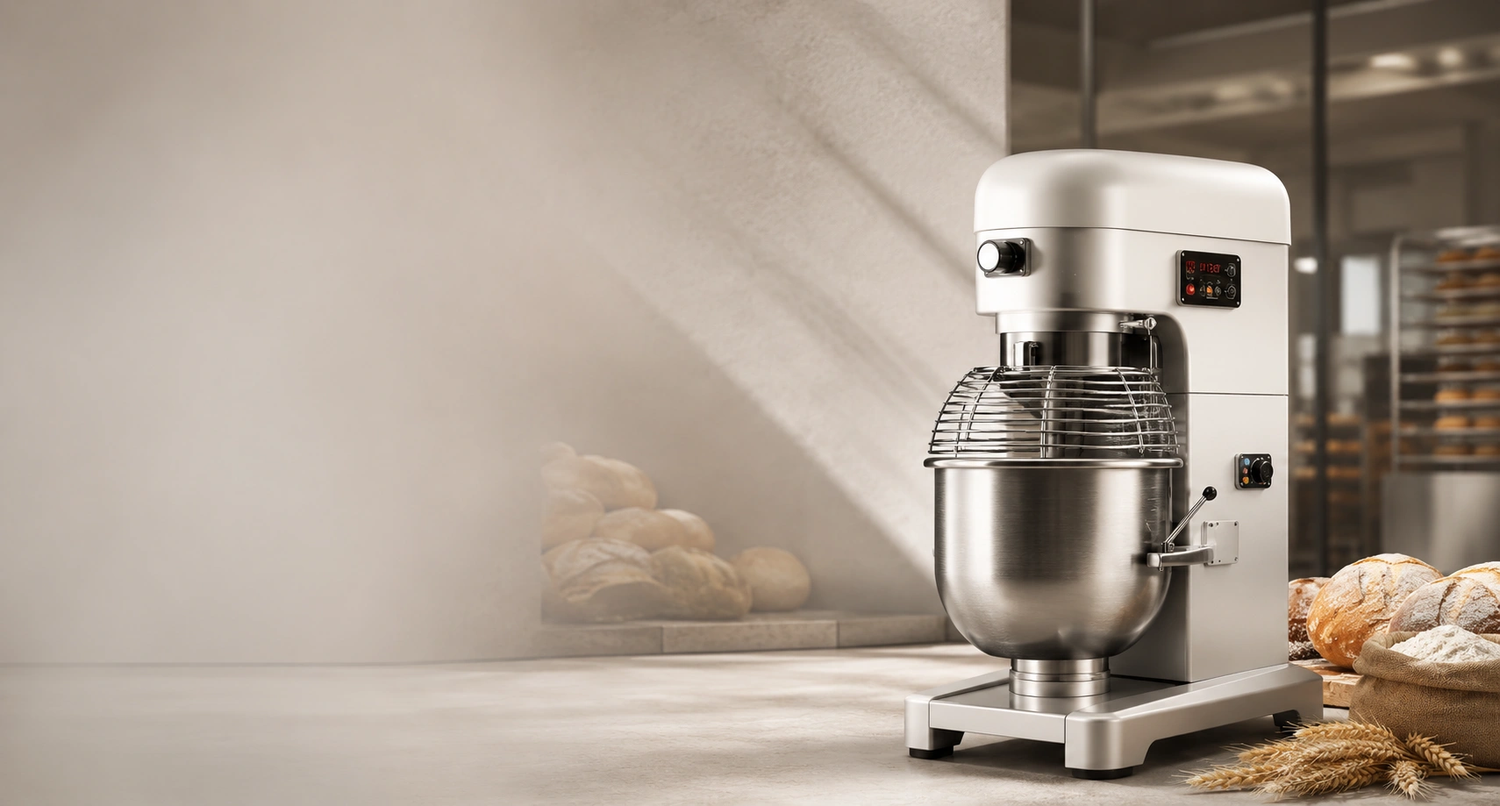
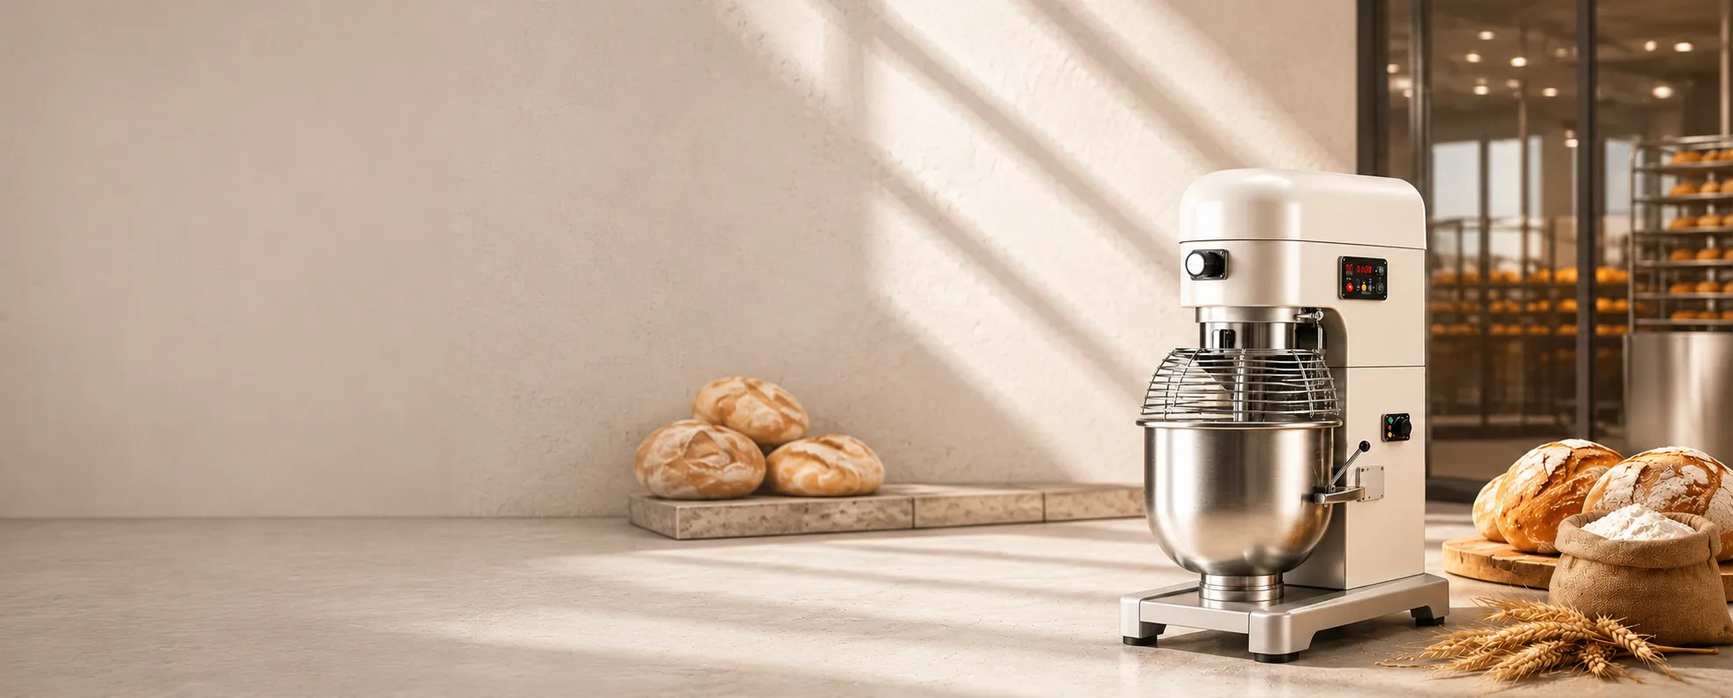
123s

diff --git a/script.js b/script.js
@@ -21,7 +21,6 @@ const products = [
   'Плита 4-конфорочная промышленная с круглыми конфорками и электрическим духовым шкафом',
   'Сковорода опрокидываемая электрическая промышленная (120 л)',
   'Сковорода опрокидываемая электрическая промышленная',
-  'Сковорода опрокидываемая электрическая промышленная',
   'Вакуумный массажер для мяса (маринатор) с компьютерным управлением и манометром на 85 литров',
   'Вакуумный массажер для мяса (маринатор) с компьютерным управлением и манометром на 100 литров',
   'Вакуумный маринатор для мяса (мясомассажер) на 160 литров с манометром',
@@ -29,38 +28,41 @@ const products = [
   'Котёл пищеварочный электрический (котел-супница) с водяной рубашкой (60 л)',
   'Фритюрница электрическая промышленная двухсекционная на закрытой подставке (с нейтральным шкафом)',
   'Мармит электрический двухсекционный на 6 гастроемкостей на закрытой подставке',
-  'Конвейерная печь для пиццы электрическая конвекционная (туннельная печь) 18 дюймов со стрелочной панелью управления',
-  'Конвейерная печь для пиццы электрическая конвекционная (туннельная печь) 32 дюйма со стрелочной панелью управления',
-  'Промышленный многофункциональный конвейерный нарезчик (машина для нарезки кубиками, ломтиками и сегментами) с ЧПУ',
+  'Конвейерная печь для пиццы электрическая конвекционная (туннельная печь) 18 дюймов',
+  'Конвейерная печь для пиццы электрическая конвекционная (туннельная печь) 32 дюйма',
+  'Промышленный многофункциональный конвейерный нарезчик с ЧПУ',
   'Промышленный волчок-мясорубка для замороженного и свежего мяса',
-  'Промышленный волчок-мясорубка для замороженного и свежего мяса',
-  'Промышленная универсальная термодымовая камера (коптильно-варочная автоматизированная установка)',
-  'Профессиональная настольная ленточная пила для резки костей и замороженного мяса',
+  'Промышленная универсальная термодымовая камера',
   'Профессиональная настольная ленточная пила для резки костей и замороженного мяса',
   'Промышленная ротационная конвекционная печь на 64 противня',
   'Промышленная ротационная конвекционная печь на 32 противня',
-  'Промышленный шкаф расстоечный на 64 противня модель ZY-F64 (расстоечная камера тупикового типа)',
-  'Профессиональный шкаф расстоечный инжекционного типа на 32 противня (спрей-система, компьютерное управление)',
-  'Профессиональный шкаф расстоечный инжекционного типа на 16 противней (спрей-система, компьютерное управление)',
+  'Промышленный шкаф расстоечный на 64 противня модель ZY-F64',
+  'Профессиональный шкаф расстоечный инжекционного типа на 32 противня',
+  'Профессиональный шкаф расстоечный инжекционного типа на 16 противней',
   'Профессиональный аппарат шоковой заморозки тележечного типа',
-  'Промышленный аппарат шоковой заморозки тележечного типа модель GDBY40-30PCT (-40°C, боковое расположение агрегата)',
-  'Промышленный аппарат шоковой заморозки тележечного типа',
+  'Промышленный аппарат шоковой заморозки тележечного типа модель GDBY40-30PCT',
   'Профессиональный аппарат шоковой заморозки полочного типа',
-  'Профессиональный четырехдверный морозильный шкаф коммерческого класса (низкотемпературный, с воздушным охлаждением)',
-  'Профессиональный двухдверный морозильный шкаф коммерческого класса (низкотемпературный, с воздушным охлаждением)',
+  'Профессиональный четырехдверный морозильный шкаф коммерческого класса',
+  'Профессиональный двухдверный морозильный шкаф коммерческого класса',
   'Профессиональный двухдверный холодильный шкаф коммерческого класса',
-  'Профессиональный двухдверный комбинированный шкаф модель BGF-1.0L2CD (двухтемпературный, с воздушным охлаждением)',
-  'Профессиональный четырехдверный комбинированный шкаф модель BGF-1.0L4CD (двухтемпературный, с воздушным охлаждением)',
-  'Промышленный трехдверный комбинированный шкаф модель BGF-1.6L3CD (двухтемпературный, с воздушным охлаждением)',
-  'Профессиональный вибрационный просеиватель муки модель 500-VS (однослойный, электрический)',
-  'Профессиональный автоматический аппарат для выпекания блинных листов модель DG-230 (настольный, конвейерный)',
+  'Профессиональный двухдверный комбинированный шкаф модель BGF-1.0L2CD',
+  'Профессиональный четырехдверный комбинированный шкаф модель BGF-1.0L4CD',
+  'Промышленный трехдверный комбинированный шкаф модель BGF-1.6L3CD',
+  'Профессиональный вибрационный просеиватель муки модель 500-VS',
+  'Профессиональный автоматический аппарат для выпекания блинных листов модель DG-230',
   'Профессиональная конвейерная тестораскаточная машина промышленного класса'
 ];
 
-const cards = document.getElementById('productCards');
-products.forEach((name) => {
-  const card = document.createElement('article');
-  card.className = 'card';
-  card.innerHTML = `<h3>${name}</h3>`;
-  cards.appendChild(card);
-});
+function renderCards(targetId, data) {
+  const cards = document.getElementById(targetId);
+  if (!cards) return;
+  data.forEach((name, i) => {
+    const card = document.createElement('article');
+    card.className = 'card';
+    card.innerHTML = `<h3>${name}</h3><p>Артикул: PT-${String(i + 1).padStart(3, '0')}</p>`;
+    cards.appendChild(card);
+  });
+}
+
+renderCards('productCards', products.slice(0, 9));
+renderCards('allProductCards', products);

diff --git a/style.css b/style.css
@@ -1,57 +1,40 @@
-:root {
-  --bg: #f5f4f2;
-  --text: #111;
-  --muted: #5b5b5b;
-  --card: #fff;
-  --line: #e4e1dd;
+:root{--bg:#f5f4f2;--text:#111;--muted:#5b5b5b;--card:#fff;--line:#e4e1dd}
+*{box-sizing:border-box} body{margin:0;font-family:Inter,sans-serif;color:var(--text);background:var(--bg)}
+.container{width:min(1320px,92%);margin:0 auto}
+.topbar{
+  position:absolute;
+  top:14px;
+  left:50%;
+  transform:translateX(-50%);
+  z-index:20;
+  background:#fff;
+  width:min(1400px,96%);
+  border-radius:8px;
+  box-shadow:0 8px 20px rgba(0,0,0,.08);
 }
-* { box-sizing: border-box; }
-body {
-  margin: 0;
-  font-family: Inter, sans-serif;
-  color: var(--text);
-  background: var(--bg);
+.nav-wrap{height:92px;display:flex;align-items:center;justify-content:space-between;gap:24px}.brand-main{font-size:38px;font-family:Playfair Display,serif;display:block;line-height:.85}.brand-sub{font-size:14px;color:#777}
+.menu{display:flex;gap:32px}.menu a,.phone{color:#1c1c1c;text-decoration:none;font-weight:500;font-size:14px}.top-actions{display:flex;align-items:center;gap:20px}
+.btn{border:none;background:#1a1a1a;color:#fff;padding:12px 22px;border-radius:6px;font-size:16px;text-decoration:none;display:inline-block}
+.hero{
+  margin-top:0;
+  min-height:720px;
+  padding-top:110px;
+  background:
+    linear-gradient(90deg,
+      rgba(245,244,242,.96) 0%,
+      rgba(245,244,242,.84) 36%,
+      rgba(245,244,242,.18) 68%,
+      rgba(245,244,242,0) 100%
+    ),
+    url('./img/slider.webp') center/cover no-repeat;
 }
-.container { width: min(1320px, 92%); margin: 0 auto; }
-.topbar {
-  position: sticky; top: 0; z-index: 20;
-  background: #fff; margin: 14px auto; width: min(1400px, 96%);
-  border-radius: 8px; box-shadow: 0 8px 20px rgba(0,0,0,.08);
-}
-.nav-wrap { height: 92px; display: flex; align-items: center; justify-content: space-between; gap: 24px; }
-.brand-main { font-size: 42px; font-family: Playfair Display, serif; display:block; line-height: .85; }
-.brand-sub { font-size: 14px; color: #777; letter-spacing: .04em; }
-.menu { display: flex; gap: 42px; }
-.menu a, .phone { color: #1c1c1c; text-decoration: none; font-weight: 500; font-size: 14px; }
-.top-actions { display:flex; align-items:center; gap: 24px; }
-.btn {
-  border: none; background: #1a1a1a; color: #fff; padding: 14px 26px;
-  border-radius: 6px; font-size: 18px; text-decoration:none; display:inline-block;
-}
-.hero {
-  min-height: 620px;
-  background: linear-gradient(90deg, rgba(245,244,242,.98) 0%, rgba(245,244,242,.86) 35%, rgba(245,244,242,.2) 70%),
-    url('https://images.unsplash.com/photo-1581092918484-8313b0a59c62?auto=format&fit=crop&w=1800&q=80') center/cover;
-}
-.hero-content { padding: 94px 0; position: relative; }
-.hero-left { max-width: 560px; }
-h1 { font-family: Playfair Display, serif; font-size: 68px; line-height: 1.05; margin: 0 0 18px; }
-.hero p { font-size: 39px; color: #2d2d2d; margin: 0 0 30px; }
-.features { background:#efede9; border-top:1px solid var(--line); border-bottom:1px solid var(--line); }
-.features-grid { display:grid; grid-template-columns: repeat(5,1fr); gap:24px; padding:30px 0; }
-.features h3 { margin:0 0 10px; font-size: 30px; }
-.features p { margin:0; color:var(--muted); font-size: 20px; }
-.catalog { padding: 46px 0 74px; }
-.catalog-head { display:flex; justify-content:space-between; align-items:center; margin-bottom:26px; }
-.catalog-head h2 { margin:0; font-size:40px; letter-spacing:.02em; }
-.catalog-head span { font-size:24px; color:#303030; }
-.cards { display:grid; grid-template-columns: repeat(3, 1fr); gap: 18px; }
-.card { background:var(--card); border:1px solid var(--line); border-radius:10px; padding:18px; min-height:140px; }
-.card h3 { margin:0; font-size:22px; line-height:1.32; font-weight:500; }
-.footer { border-top:1px solid var(--line); color:#777; padding:20px 0; font-size:16px; }
-@media (max-width: 1280px){
-  .menu{display:none;} .features-grid{grid-template-columns:repeat(2,1fr);} .cards{grid-template-columns:repeat(2,1fr);} h1{font-size:48px;} .hero p{font-size:30px;}
-}
-@media (max-width: 760px){
-  .cards,.features-grid{grid-template-columns:1fr;} .brand-main{font-size:32px;} .top-actions .phone{display:none;} .hero{min-height:500px;} h1{font-size:38px;} .hero p{font-size:22px;}
-}
+.hero-content{padding:90px 0 80px;}.hero-left{max-width:560px}h1{font-family:math;font-size:56px;line-height:1.05;margin:0 0 18px}.hero p{font-size:30px;color:#2d2d2d;margin:0 0 30px}
+.features{background:#efede9;border-top:1px solid var(--line);border-bottom:1px solid var(--line)}.features-grid{display:grid;grid-template-columns:repeat(5,1fr);gap:24px;padding:30px 0}.features h3{margin:0 0 8px;font-size:28px}.features p{margin:0;color:var(--muted);font-size:18px}
+.catalog,.categories{padding:46px 0}.catalog-head{display:flex;justify-content:space-between;align-items:center;margin-bottom:26px}.catalog-head h2{margin:0;font-size:36px}.catalog-head a{text-decoration:none;color:#303030}
+.category-grid{display:grid;grid-template-columns:repeat(5,1fr);gap:18px}.category-card{background:#fff;border:1px solid var(--line);border-radius:10px;overflow:hidden}.category-card img{width:100%;height:170px;object-fit:cover}.category-card h3{padding:14px;font-size:22px;margin:0}
+.cards{display:grid;grid-template-columns:repeat(3,1fr);gap:18px}.card{background:var(--card);border:1px solid var(--line);border-radius:10px;padding:18px}.card h3{margin:0 0 8px;font-size:20px;line-height:1.32;font-weight:600}.card p{margin:0;color:#666}
+.cta{padding:20px 0 70px}.cta-box{background:#1f1f1f;color:#fff;border-radius:14px;padding:42px}.cta-box h2{margin:0 0 10px;font-size:42px}.cta-box p{margin:0 0 24px;color:#ddd;font-size:22px}
+.catalog-page{padding:40px 0 80px}.catalog-title{font-size:52px;margin:16px 0}.catalog-sub{color:#666;font-size:20px;margin:0 0 24px}
+.footer{border-top:1px solid var(--line);color:#777;padding:20px 0;font-size:16px}.whatsapp-float{position:fixed;right:22px;bottom:22px;background:#25d366;color:#fff;text-decoration:none;padding:14px 18px;border-radius:999px;font-weight:700;box-shadow:0 8px 22px rgba(0,0,0,.2)}
+@media (max-width:1280px){.menu{display:none}.features-grid{grid-template-columns:repeat(2,1fr)}.cards{grid-template-columns:repeat(2,1fr)}.category-grid{grid-template-columns:repeat(2,1fr)}h1{font-size:46px}.hero p{font-size:24px}}
+@media (max-width:760px){.cards,.features-grid,.category-grid{grid-template-columns:1fr}.brand-main{font-size:30px}.top-actions .phone{display:none}.hero{min-height:500px}h1{font-size:34px}.hero p{font-size:20px}.cta-box h2{font-size:30px}}

diff --git a/index.html b/index.html
@@ -3,11 +3,11 @@
 <head>
   <meta charset="UTF-8" />
   <meta name="viewport" content="width=device-width, initial-scale=1.0" />
-  <title>Каталог промышленного оборудования</title>
-  <link rel="preconnect" href="https://fonts.googleapis.com">
+  <title>PROTECH — промышленное пищевое оборудование</title>
+	<link rel="preconnect" href="https://fonts.googleapis.com">
   <link rel="preconnect" href="https://fonts.gstatic.com" crossorigin>
-  <link href="https://fonts.googleapis.com/css2?family=Inter:wght@400;500;600&family=Playfair+Display:wght@500;700&display=swap" rel="stylesheet">
-<link rel="stylesheet" href="<?php echo get_template_directory_uri(); ?>/style.css">
+	  <link href="https://fonts.googleapis.com/css2?family=Inter:wght@400;500;600;700&family=Playfair+Display:wght@600;700&display=swap" rel="stylesheet">
+  <link rel="stylesheet" href="<?php echo get_template_directory_uri(); ?>/style.css">
 </head>
 <body>
   <header class="topbar">
@@ -17,53 +17,70 @@
         <span class="brand-sub">пищевое оборудование</span>
       </div>
       <nav class="menu">
-        <a href="#catalog">КАТАЛОГ</a>
-        <a href="#about">О КОМПАНИИ</a>
+        <a href="/catalog">КАТАЛОГ</a>
+		  <a href="#about">О КОМПАНИИ</a>
         <a href="#advantages">ПРЕИМУЩЕСТВА</a>
         <a href="#contacts">КОНТАКТЫ</a>
       </nav>
       <div class="top-actions">
         <a class="phone" href="tel:+74951234567">+7 (495) 123-45-67</a>
-        <button class="btn">Оставить заявку</button>
-      </div>
+        <a class="btn" href="#contacts">Оставить заявку</a>
+		</div>
     </div>
   </header>
 
   <section class="hero" id="about">
-    <div class="overlay"></div>
     <div class="container hero-content">
       <div class="hero-left">
-        <h1>ПРОМЫШЛЕННОЕ<br>ОБОРУДОВАНИЕ<br>ДЛЯ ПРОИЗВОДСТВА</h1>
-        <p>Профессиональные решения для цехов, пекарен и пищевых производств.</p>
-        <a class="btn" href="#catalog">Перейти в каталог</a>
+        <h1>ФУНКЦИОНАЛЬНОЕ<br>ОБОРУДОВАНИЕ<br>ДЛЯ ПРОИЗВОДСТВА</h1>
+        <p>Качество в каждой детали для пищевого бизнеса.</p>
+        <a class="btn" href="catalog.html">Перейти в каталог</a>
       </div>
     </div>
   </section>
 
   <section class="features" id="advantages">
     <div class="container features-grid">
-      <article><h3>60+</h3><p>моделей оборудования в каталоге</p></article>
-      <article><h3>20 лет</h3><p>опыта в оснащении производств</p></article>
-      <article><h3>Надёжность</h3><p>проверенные промышленные решения</p></article>
-      <article><h3>Подбор</h3><p>индивидуальная комплектация под задачи</p></article>
+      <article><h3>60+</h3><p>наименований оборудования</p></article>
+      <article><h3>20 лет</h3><p>экспертизы в индустрии</p></article>
+      <article><h3>EU quality</h3><p>стандарты качества и безопасности</p></article>
+      <article><h3>Подбор</h3><p>решения под ваш формат производства</p></article>
       <article><h3>Доставка</h3><p>по всей России и СНГ</p></article>
     </div>
   </section>
 
+  <section class="categories">
+	  <div class="container">
+      <div class="catalog-head"><h2>ПОПУЛЯРНЫЕ КАТЕГОРИИ</h2><a href="/catalog">Смотреть весь каталог →</a></div>
+      <div class="category-grid">
+        <article class="category-card"><img src="<?php echo get_template_directory_uri(); ?>/img/slider.webp" alt="Тестомесы"><h3>Тестомесы</h3></article>
+        <article class="category-card"><img src="<?php echo get_template_directory_uri(); ?>/img/slider.webp" alt="Тестораскатка"><h3>Тестораскатка</h3></article>
+        <article class="category-card"><img src="<?php echo get_template_directory_uri(); ?>/img/slider.webp" alt="Печи"><h3>Печи и расстойка</h3></article>
+        <article class="category-card"><img src="<?php echo get_template_directory_uri(); ?>/img/slider.webp" alt="Мясопереработка"><h3>Мясопереработка</h3></article>
+        <article class="category-card"><img src="<?php echo get_template_directory_uri(); ?>/img/slider.webp" alt="Холод"><h3>Холодильное оборудование</h3></article>
+      </div>
+		      </div>
+  </section>
+
   <main class="catalog" id="catalog">
     <div class="container">
-      <div class="catalog-head">
-        <h2>ПОПУЛЯРНЫЕ КАТЕГОРИИ</h2>
-        <span>Смотреть все категории →</span>
-      </div>
+      <div class="catalog-head"><h2>ХИТЫ ПРОДАЖ</h2><a href="catalog.html">Все товары →</a></div>
       <div class="cards" id="productCards"></div>
     </div>
   </main>
 
-  <footer class="footer" id="contacts">
-    <div class="container">© 2026 PROTECH. Поставки промышленного оборудования.</div>
-  </footer>
+	  <section class="cta">
+    <div class="container cta-box">
+      <h2>Оснастим ваш цех под ключ за 7 дней</h2>
+      <p>Подбор оборудования, расчет производительности, поставка и запуск.</p>
+      <a class="btn" href="tel:+74951234567">Получить консультацию</a>
+    </div>
+  </section>
 
+  <footer class="footer" id="contacts">
+    <div class="container">© 2026 PROTECH. Поставки промышленного оборудования. Тел: +7 (495) 123-45-67</div>
+	</footer>
+  <a class="whatsapp-float" href="https://wa.me/74951234567" target="_blank" rel="noopener">Написать в WhatsApp</a>
   <script src="<?php echo get_template_directory_uri(); ?>/script.js"></script>
 </body>
 </html>

diff --git a/catalog.php b/catalog.php
@@ -1,0 +1,32 @@
+<?php
+/**
+ * Template Name: Каталог
+ * Description: 
+ */
+?>
+<!doctype html>
+<html lang="ru">
+<head>
+  <meta charset="UTF-8" />
+  <meta name="viewport" content="width=device-width, initial-scale=1.0" />
+  <title>Каталог PROTECH</title>
+  <link rel="stylesheet" href="<?php echo get_template_directory_uri(); ?>/style.css">
+</head>
+<body>
+<header class="topbar">
+  <div class="container nav-wrap">
+    <div class="brand"><span class="brand-main">PROTECH</span><span class="brand-sub">пищевое оборудование</span></div>
+    <nav class="menu"><a href="/">ГЛАВНАЯ</a><a href="/catalog">КАТАЛОГ</a></nav>
+  </div>
+</header>
+<main class="catalog-page">
+  <div class="container">
+    <h1 class="catalog-title">Полный каталог товаров</h1>
+    <p class="catalog-sub">Все позиции из файла «Каталог.xlsx»</p>
+    <div class="cards catalog-cards" id="allProductCards"></div>
+  </div>
+</main>
+<a class="whatsapp-float" href="https://wa.me/74951234567" target="_blank" rel="noopener">Написать в WhatsApp</a>
+<script src="<?php echo get_template_directory_uri(); ?>/script.js"></script>
+</body>
+</html>
